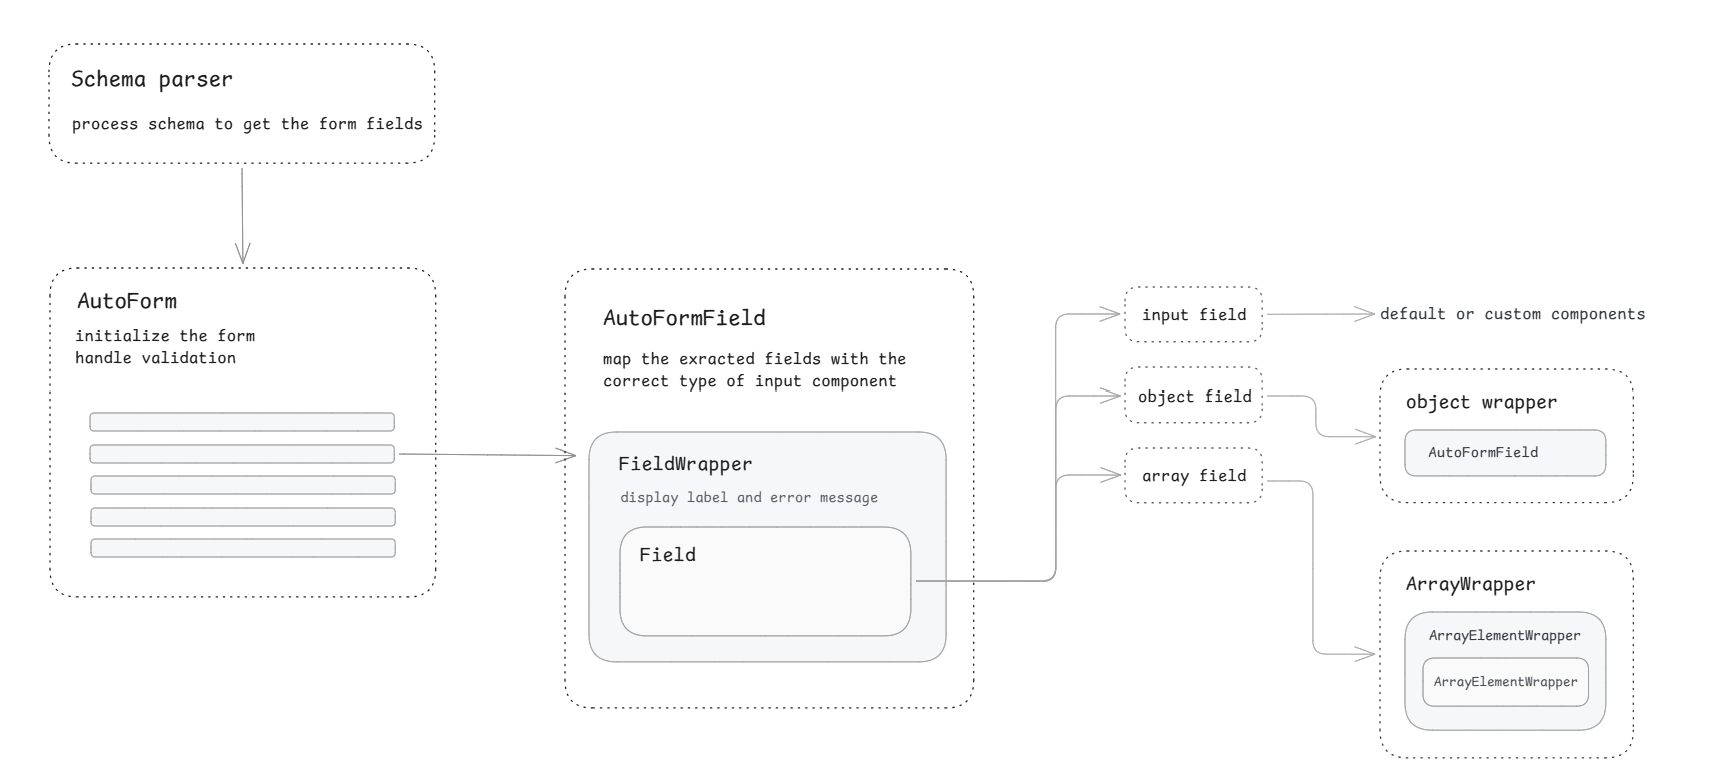
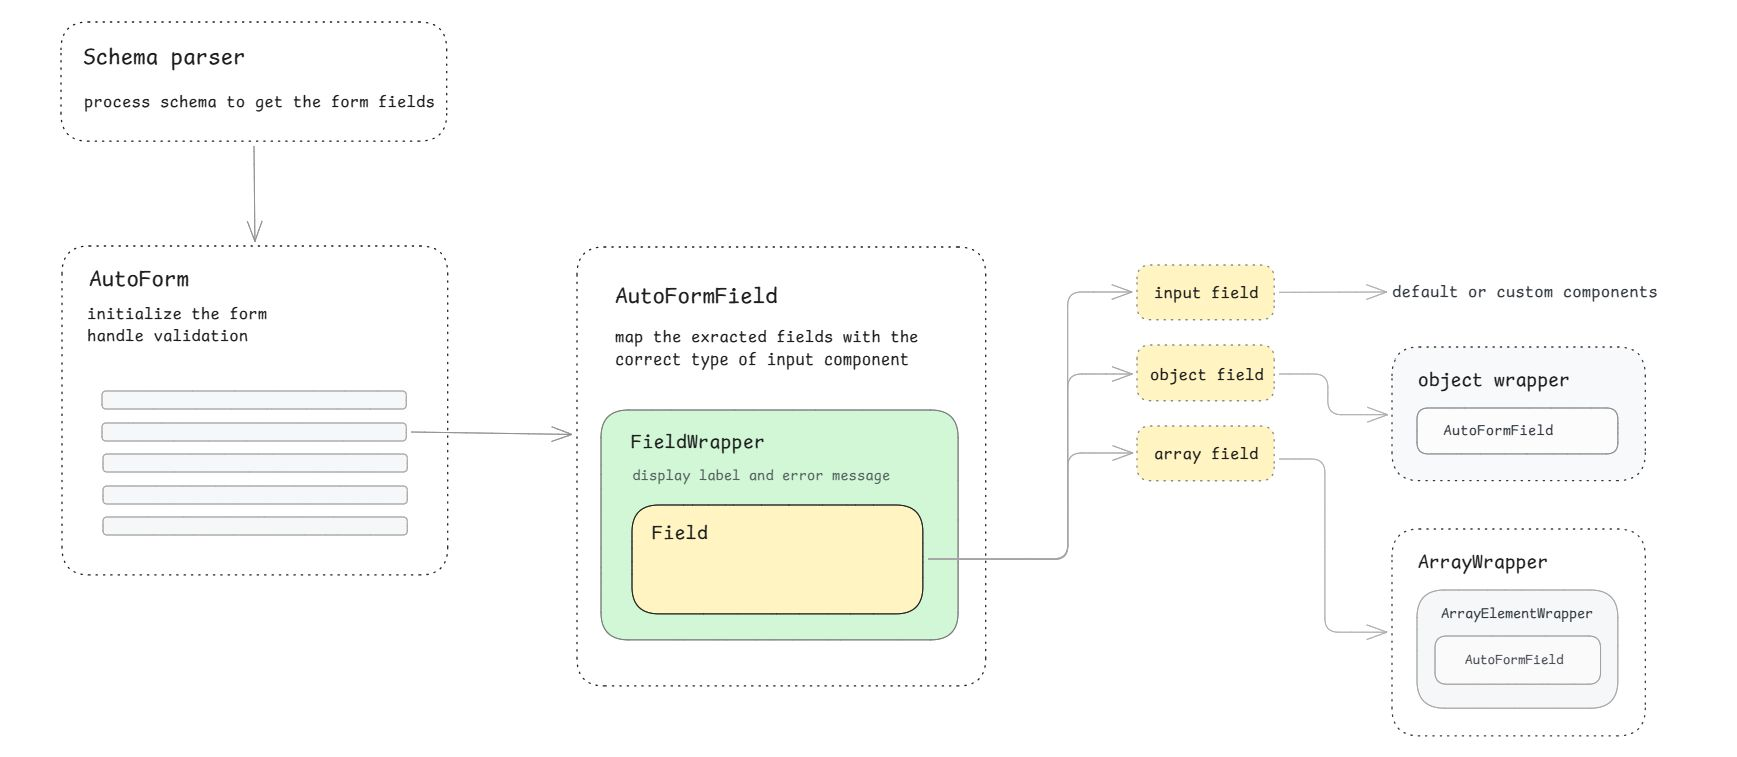
chore: docs update

diff --git a/skills/autoform/SKILL.md b/skills/autoform/SKILL.md
@@ -120,8 +120,8 @@ Use this mental model when wiring custom components or wrappers.
      [Field]
         |
         +--> [input field]  -> default / custom "form component"
-        +--> [object field] -> [ObjectWrapper]
-        +--> [array field]  -> [ArrayWrapper] -> [ArrayElementWrapper]
+        +--> [object field] -> [ObjectWrapper] -> (AutoFormField)
+        +--> [array field]  -> [ArrayWrapper] -> [ArrayElementWrapper] -> (AutoFormField)
 ```
 
 following sections cover each of these layers.